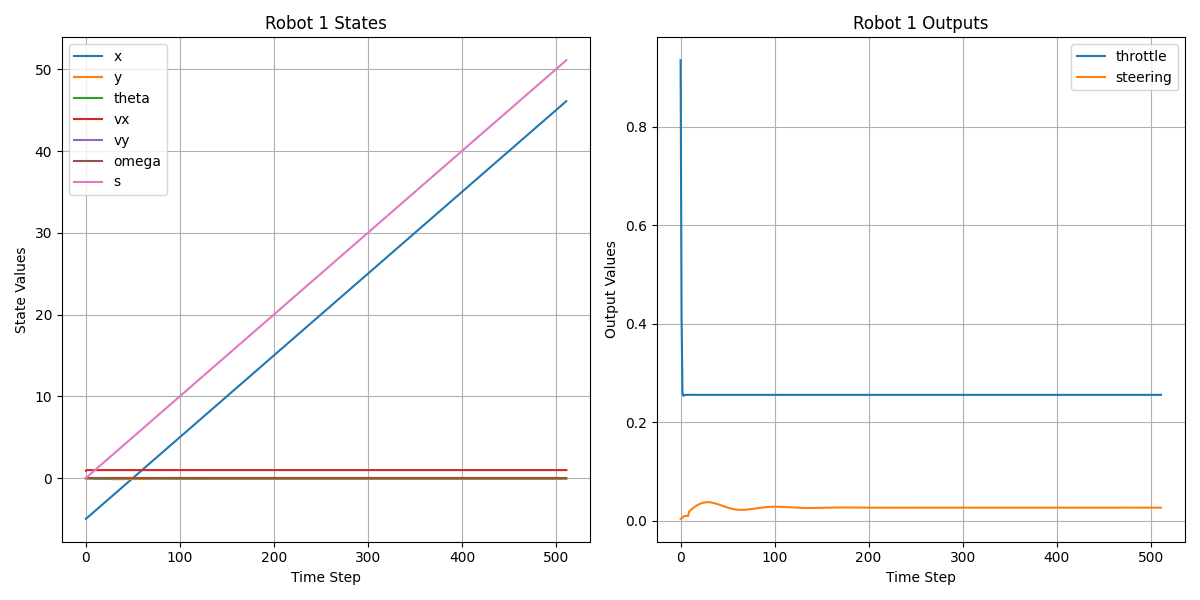
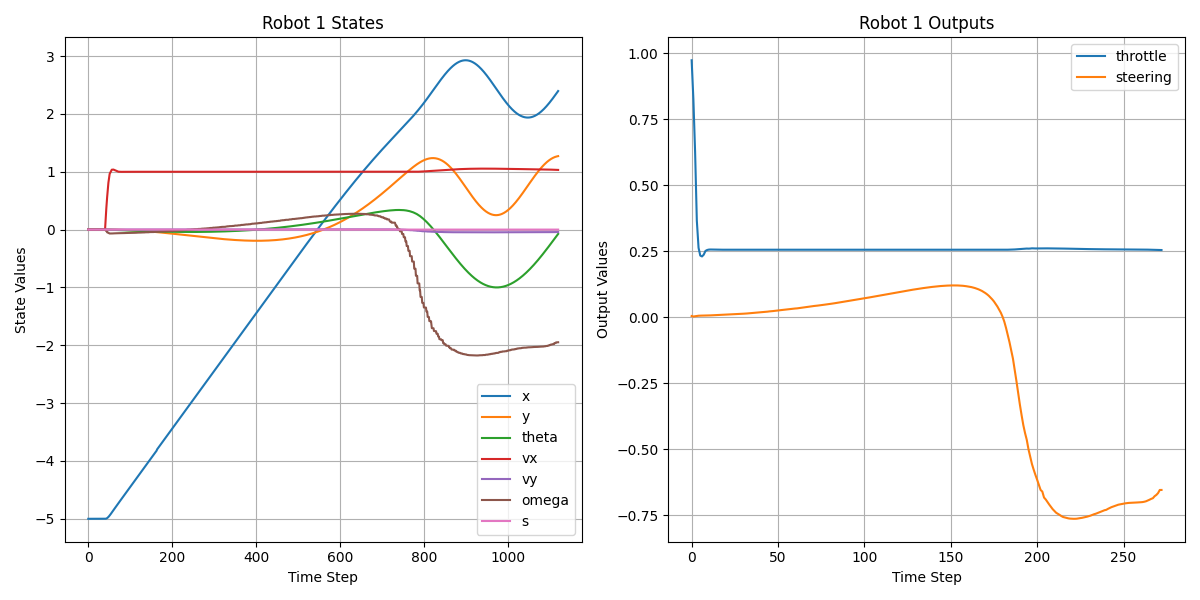
bugfixes on 2 robot scenario with sim

diff --git a/dmpc_planner/scripts/jetracersimulator_mpc.py b/dmpc_planner/scripts/jetracersimulator_mpc.py
@@ -209,37 +209,28 @@ class ROSMPCPlanner:
                         # print(f"{splines[i]['a_x']:.1f}, {splines[i]['b_x']:.1f}, {splines[i]['c_x']:.1f}, {splines[i]['d_x']:.1f}, {splines[i]['a_y']:.1f}, {splines[i]['b_y']:.1f}, {splines[i]['c_y']:.1f}, {splines[i]['d_y']:.1f}, {splines[i]['s']:.1f}")
 
     def publish_throttle(self, output, exit_flag):
-        throttle_1 = Float32()
-        throttle_2 = Float32()
-        # print(f"v = {output['v']}, w = {output['w']}")
-        if not self._mpc_feasible or not self._enable_output:
-            if not self._mpc_feasible:
-                rospy.logwarn_throttle(1, "Infeasible MPC. Braking!")
-                throttle_1.data = max(0.0, self._state[3] - self._braking_acceleration * self._integrator_step,)
-                throttle_2.data = max(0.0, self._state[10] - self._braking_acceleration * self._integrator_step,)
+        for n in range(1, self._number_of_robots + 1):
+            throttle = Float32()
+            if not self._mpc_feasible or not self._enable_output:
+                if not self._mpc_feasible:
+                    rospy.logwarn_throttle(1, "Infeasible MPC. Braking!")
+                    throttle.data = max(0.0, self._state[3 + (n-1) * self._nx_one_robot] - self._braking_acceleration * self._integrator_step,)
+                else:
+                    rospy.logwarn_throttle(1, "Output is disabled. Sending zero velocity!")
+                    throttle.data = 0.0
             else:
-                rospy.logwarn_throttle(1, "Output is disabled. Sending zero velocity!")
-                throttle_1.data = 0.0
-                throttle_2.data = 0.0
-        else:
-            throttle_1.data = output["throttle_1"]
-            throttle_2.data = output["throttle_2"]
-            rospy.loginfo_throttle(1000, "MPC is driving")
-            self._th_pub_1.publish(throttle_1)
-            self._th_pub_2.publish(throttle_2)
+                throttle.data = output[f"throttle_{n}"]
+                rospy.loginfo_throttle(1000, "MPC is driving")
+                getattr(self,f"_th_pub_{n}").publish(throttle)
     
     def publish_steering(self, output, exit_flag):
-        steering_1 = Float32()
-        steering_2 = Float32()
-        # print(f"v = {output['v']}, w = {output['w']}")
-        if not self._mpc_feasible or not self._enable_output:
-            steering_1.data = 0.0
-            steering_2.data = 0.0
-        else:
-            steering_1.data = output["steering_1"]
-            steering_2.data = output["steering_2"]
-            self._st_pub_1.publish(steering_1)
-            self._st_pub_2.publish(steering_2)
+         for n in range(1, self._number_of_robots + 1):
+            steering = Float32()
+            if not self._mpc_feasible or not self._enable_output:
+                steering.data = 0.0
+            else:
+                steering.data = output[f"steering_{n}"]
+                getattr(self, f"_st_pub_{n}").publish(steering)
 
     def publish_robot_state(self):
         pose = PoseStamped()
@@ -312,7 +303,7 @@ class ROSMPCPlanner:
             # print(f"vx = {self._state[3]:.2f}")
     
     def state_pose_callback_2(self, msg):
-        if self._dart_simulator:
+        if self._dart_simulator and self._number_of_robots > 1:
             self._state_msg_2 = msg
             self._state[7] = msg.pose.position.x
             self._state[8] = msg.pose.position.y
@@ -335,7 +326,7 @@ class ROSMPCPlanner:
             self._state[4] = msg.data
 
     def vy_pose_callback_2(self, msg):
-        if self._dart_simulator:
+        if self._dart_simulator and self._number_of_robots > 1:
             self._state[11] = msg.data
     
     def w_pose_callback_1(self, msg):
@@ -343,7 +334,7 @@ class ROSMPCPlanner:
             self._state[5] = msg.data
     
     def w_pose_callback_2(self, msg):
-        if self._dart_simulator:
+        if self._dart_simulator and self._number_of_robots > 1:
             self._state[12] = msg.data
 
     def path_callback_1(self, msg):
@@ -360,7 +351,7 @@ class ROSMPCPlanner:
     def path_callback_2(self, msg):
 
         # Filter equal paths
-        if self._path_msg_2 is not None and len(self._path_msg_2.poses) == len(msg.poses):
+        if self._path_msg_2 is not None and len(self._path_msg_2.poses) == len(msg.poses) or self._number_of_robots < 2:
             return
 
         self._path_msg_2 = msg

diff --git a/dmpc_planner/scripts/mpc_controller.py b/dmpc_planner/scripts/mpc_controller.py
@@ -76,7 +76,7 @@ class MPCPlanner:
         if not hasattr(self, "_mpc_x_plan"):
             self._mpc_x_plan = np.tile(np.array(xinit).reshape((-1, 1)), (1, self._N))
             self.set_initial_x_plan_1(xinit)
-            self.set_initial_x_plan_2(xinit)
+            self.set_initial_x_plan_2(xinit) if self._number_of_robots > 1 else None
 
         if not hasattr(self, "_mpc_u_plan"):
             self._mpc_u_plan = np.zeros((self._nu, self._N))
@@ -210,10 +210,10 @@ class MPCPlanner:
             # theta_ref_0[i] = theta_ref_0[i-1] + k_0_vals[i-1] * self.reference_velocity * self._dt
         
         # now down sample to the N points
-        self._mpc_x_plan[0,:] = np.interp(np.linspace(0,1,self._N), np.linspace(0,1,N_0+1), x_ref_0)
-        self._mpc_x_plan[1,:] = np.interp(np.linspace(0,1,self._N), np.linspace(0,1,N_0+1), y_ref_0)
-        self._mpc_x_plan[3,:] = self.reference_velocity
-        self._mpc_x_plan[6,:] = np.interp(np.linspace(0,1,self._N), np.linspace(0,1,N_0+1), s_0_vec)
+        self._mpc_x_plan[0 + self._nx_one_robot,:] = np.interp(np.linspace(0,1,self._N), np.linspace(0,1,N_0+1), x_ref_0)
+        self._mpc_x_plan[1 + self._nx_one_robot,:] = np.interp(np.linspace(0,1,self._N), np.linspace(0,1,N_0+1), y_ref_0)
+        self._mpc_x_plan[3 + self._nx_one_robot,:] = self.reference_velocity
+        self._mpc_x_plan[6 + self._nx_one_robot,:] = np.interp(np.linspace(0,1,self._N), np.linspace(0,1,N_0+1), s_0_vec)
     
     def set_initial_u_plan(self):
         # Evaluate throttle to keep the constant velocity

diff --git a/solver_generator/generate_solver.py b/solver_generator/generate_solver.py
@@ -147,7 +147,7 @@ def generate_solver(modules, model, settings=None):
 
     # horizon
     ocp.solver_options.tf = settings["N"] * settings["integrator_step"]
-    ocp.solver_options.tol = 1e-3 #1e-6  # 1e-2
+    ocp.solver_options.tol = 1e-2 #1e-6  # 1e-2
 
     # Solver options
     # integrator option
